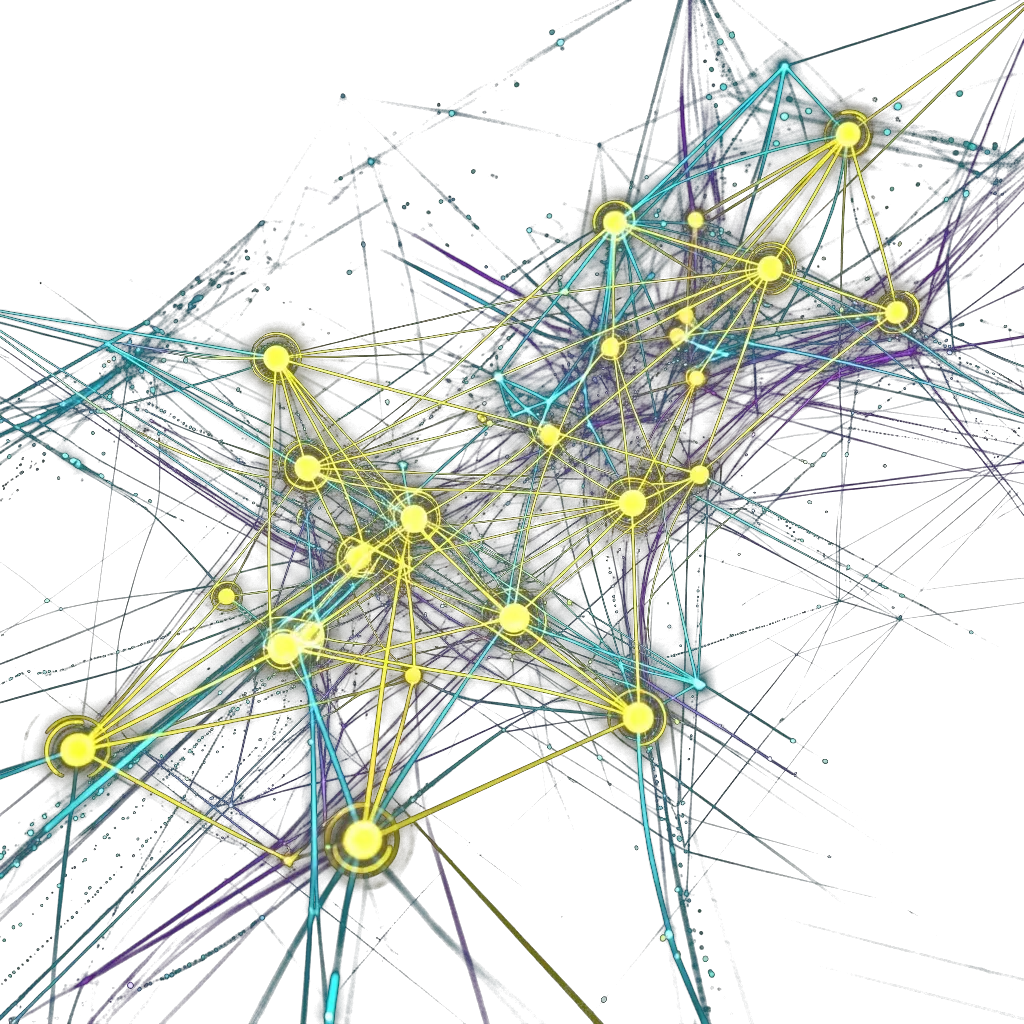
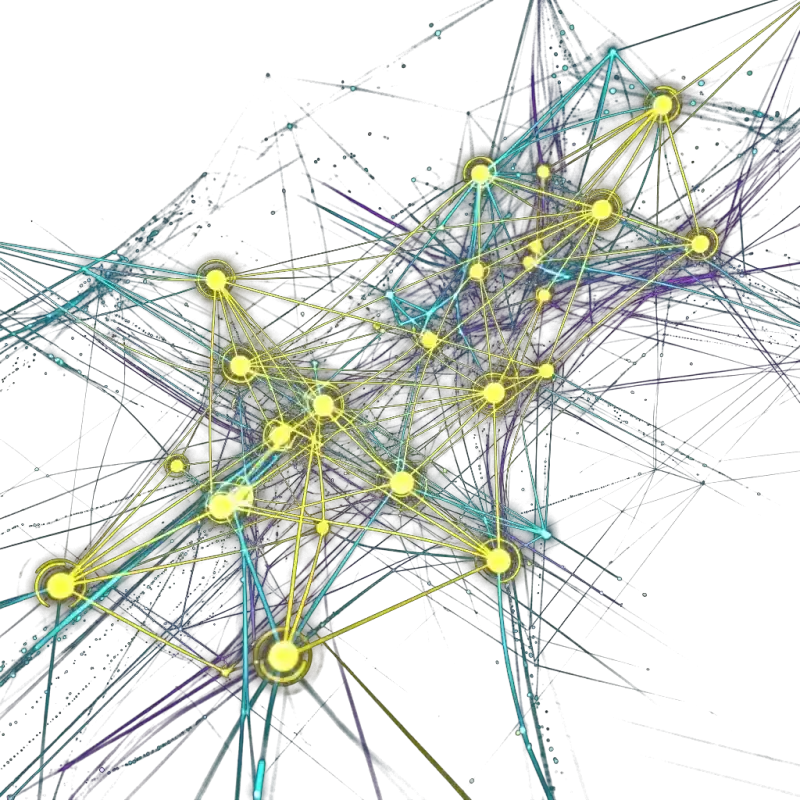
perf(optimization): optimize LCP hero image and establish preconnect linkages for external scripts

diff --git a/components/home/Hero.tsx b/components/home/Hero.tsx
@@ -1,5 +1,6 @@
 import { Table, Database, BarChart3, Layers, Code2 } from 'lucide-react';
 import HeroInteraction from './HeroInteraction';
+import Image from 'next/image';
 
 function TechLabel({ children }: { children: React.ReactNode }) {
   return (
@@ -30,13 +31,14 @@ export default function Hero() {
         className="absolute top-[45%] right-[1px] -translate-y-1/2 w-[calc(100%-2px)] lg:w-[55%] z-0 pointer-events-none overflow-hidden aspect-[4/3] lg:aspect-auto lg:h-[80vh] hero-visual-container"
       >
         <div className="relative w-full h-full">
-          <img
+          <Image
             src="/hero-bg.webp"
             alt="Surgical AI Workspace | Creator Intelligence Infrastructure"
-            className="object-cover w-full h-full"
+            fill
+            priority
+            sizes="(max-width: 1024px) 100vw, 55vw"
+            className="object-cover"
             style={{ objectPosition: 'center top' }}
-            fetchPriority="high"
-            decoding="async"
           />
         </div>
         <div

diff --git a/app/layout.tsx b/app/layout.tsx
@@ -183,6 +183,10 @@ export default function RootLayout({ children }: { children: React.ReactNode }) 
             `,
           }}
         />
+        <link rel="preconnect" href="https://pagead2.googlesyndication.com" crossOrigin="anonymous" />
+        <link rel="preconnect" href="https://googleads.g.doubleclick.net" crossOrigin="anonymous" />
+        <link rel="preconnect" href="https://www.googletagmanager.com" crossOrigin="anonymous" />
+        <link rel="preconnect" href="https://fonts.gstatic.com" crossOrigin="anonymous" />
         <link rel="dns-prefetch" href="https://ep1.adtrafficquality.google" />
         <link rel="dns-prefetch" href="https://pagead2.googlesyndication.com" />
         <link rel="dns-prefetch" href="https://googleads.g.doubleclick.net" />